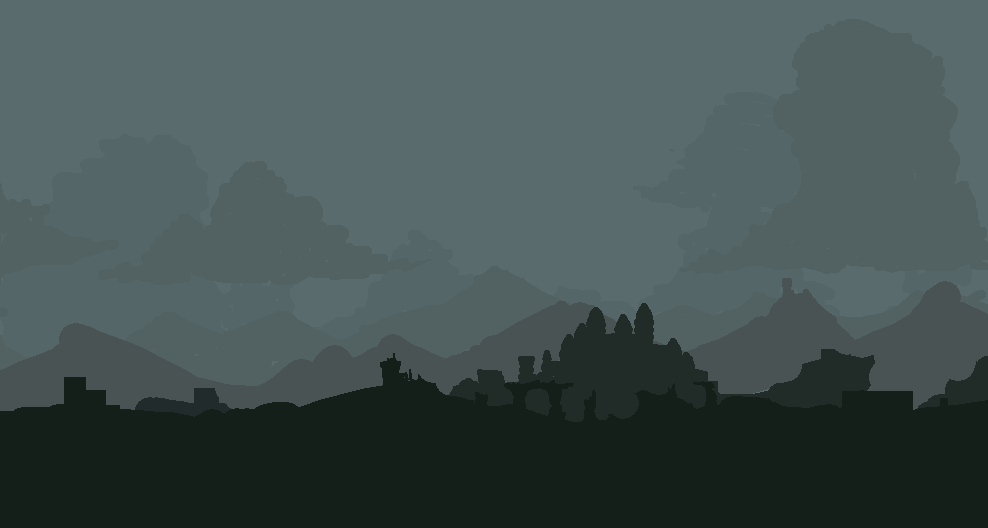
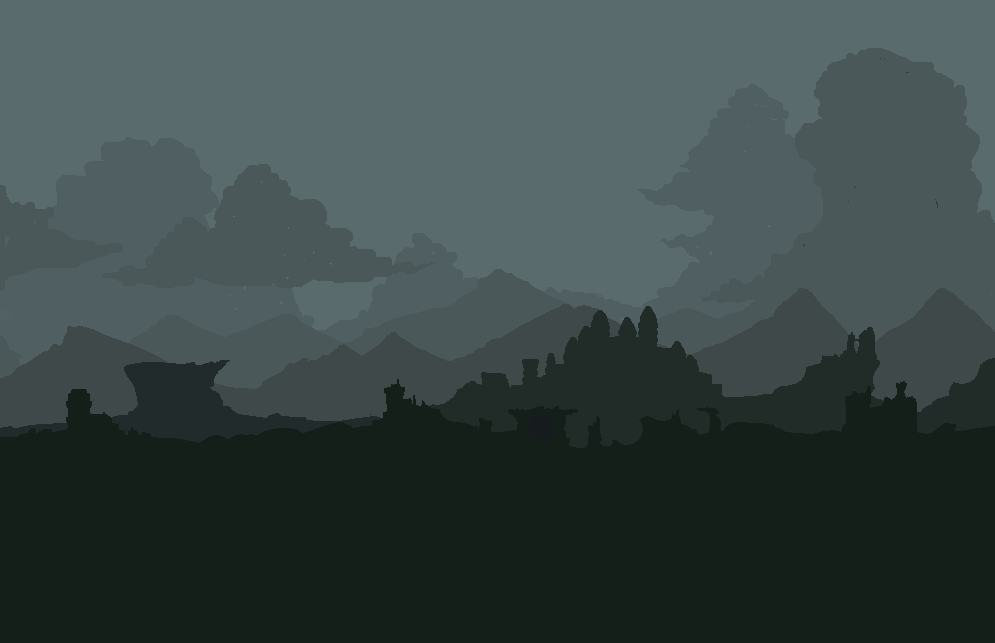
New background, bullet turret rotation to target

Changed region(s): [[0.0, 0.4545, 1.0, 0.7879]]

diff --git a/Assets/Scripts/Gameplay/Turrets/Turret.cs b/Assets/Scripts/Gameplay/Turrets/Turret.cs
@@ -9,6 +9,11 @@ public abstract class Turret : MonoBehaviour {
 	[Header("Generic settings")]
 	public LayerMask enemyLayers;
 
+	[Header("Visuals")]
+	public Transform barrel;
+	public float slewHomeWait;
+	public float slewHomeTime;
+
 	private const float AIM_TIME = 0.1f;
 
 	protected Collider2D[] overlapResults;
@@ -18,6 +23,8 @@ public abstract class Turret : MonoBehaviour {
 	protected float lastFireTime;
 	private float lastAimTime;
 
+	private float lastBarrelAngle;
+
 	public void Awake() {
 		this.overlapResults = new Collider2D[128];
         this.sortedOverlapResults = new SortedList<float, GameObject>(this.overlapResults.Length);
@@ -25,6 +32,17 @@ public abstract class Turret : MonoBehaviour {
 		this.lastFireTime = Time.time;
 	
 		Init();
+	}
+
+	public virtual void Update() {
+		if(Time.time - this.lastFireTime > this.slewHomeWait) {
+			float t = (Time.time - this.lastFireTime - this.slewHomeWait) / this.slewHomeTime;
+			if(t <= 1) {
+				float oldAngle = this.lastBarrelAngle;
+				SetBarrelRotation(Mathf.Lerp(oldAngle, 0, t));
+				this.lastBarrelAngle = oldAngle;
+			}
+		}
 	}
 
 	public virtual void FixedUpdate() {
@@ -65,6 +83,7 @@ public abstract class Turret : MonoBehaviour {
 			return;
 		}
 
+		RotateBarrelTo(selected);
 		Fire(selected);
 		this.lastFireTime = Time.time;
 	}
@@ -75,6 +94,26 @@ public abstract class Turret : MonoBehaviour {
 		}
 
 		return sortedOverlapResults[0].GetComponent<Enemy>();
+	}
+
+	protected void RotateBarrelTo(Enemy target) {
+		if(this.barrel == null) {
+			return;
+		}
+
+		Vector2 delta = target.transform.position - this.transform.position;
+
+		float angle = Mathf.Atan2(delta.y, delta.x);
+		SetBarrelRotation(angle);
+	}
+
+	protected void SetBarrelRotation(float angle) {
+		this.lastBarrelAngle = angle;
+
+		angle *= Mathf.Rad2Deg;
+		bool flip = angle > -90 && angle < 90;
+		this.barrel.localScale = new Vector3(flip ? -1 : 1, 1, 1);
+		this.barrel.localEulerAngles = new Vector3(0, 0, angle + (flip ? 0 : 180));
 	}
 
 	private void Aim() {

diff --git a/Assets/Scripts/Gameplay/Turrets/GranadeTurret.cs b/Assets/Scripts/Gameplay/Turrets/GranadeTurret.cs
@@ -31,7 +31,9 @@ public class GranadeTurret : Turret {
         // this.radius = this.speed * this.speed / Mathf.Abs(Physics2D.gravity.y) * 2;
     }
 
-    public void Update() {
+    public override void Update() {
+        base.Update();
+        
         if(this.lockedEnemy == null) {
             foreach(var rend in this.aimRends) {
                 Color c = rend.color;

diff --git a/Assets/Scripts/Gameplay/Turrets/BulletTurret.cs b/Assets/Scripts/Gameplay/Turrets/BulletTurret.cs
@@ -12,7 +12,8 @@ public class BulletTurret : Turret {
         this.raycastResults = new RaycastHit2D[32];
     }
 
-    public void Update() {
+    public override void Update() {
+        base.Update();
     }
 
     protected override void Fire(Enemy target) {

diff --git a/Assets/Scripts/View/Animation/PlayerAnimator.cs b/Assets/Scripts/View/Animation/PlayerAnimator.cs
@@ -90,6 +90,8 @@ public class PlayerAnimator : SpriteAnimator {
 
         if(dead && this.state != State.Dead) {
             this.state = State.Dead;
+
+            this.bounceParticles.Stop();
         }
 
 
